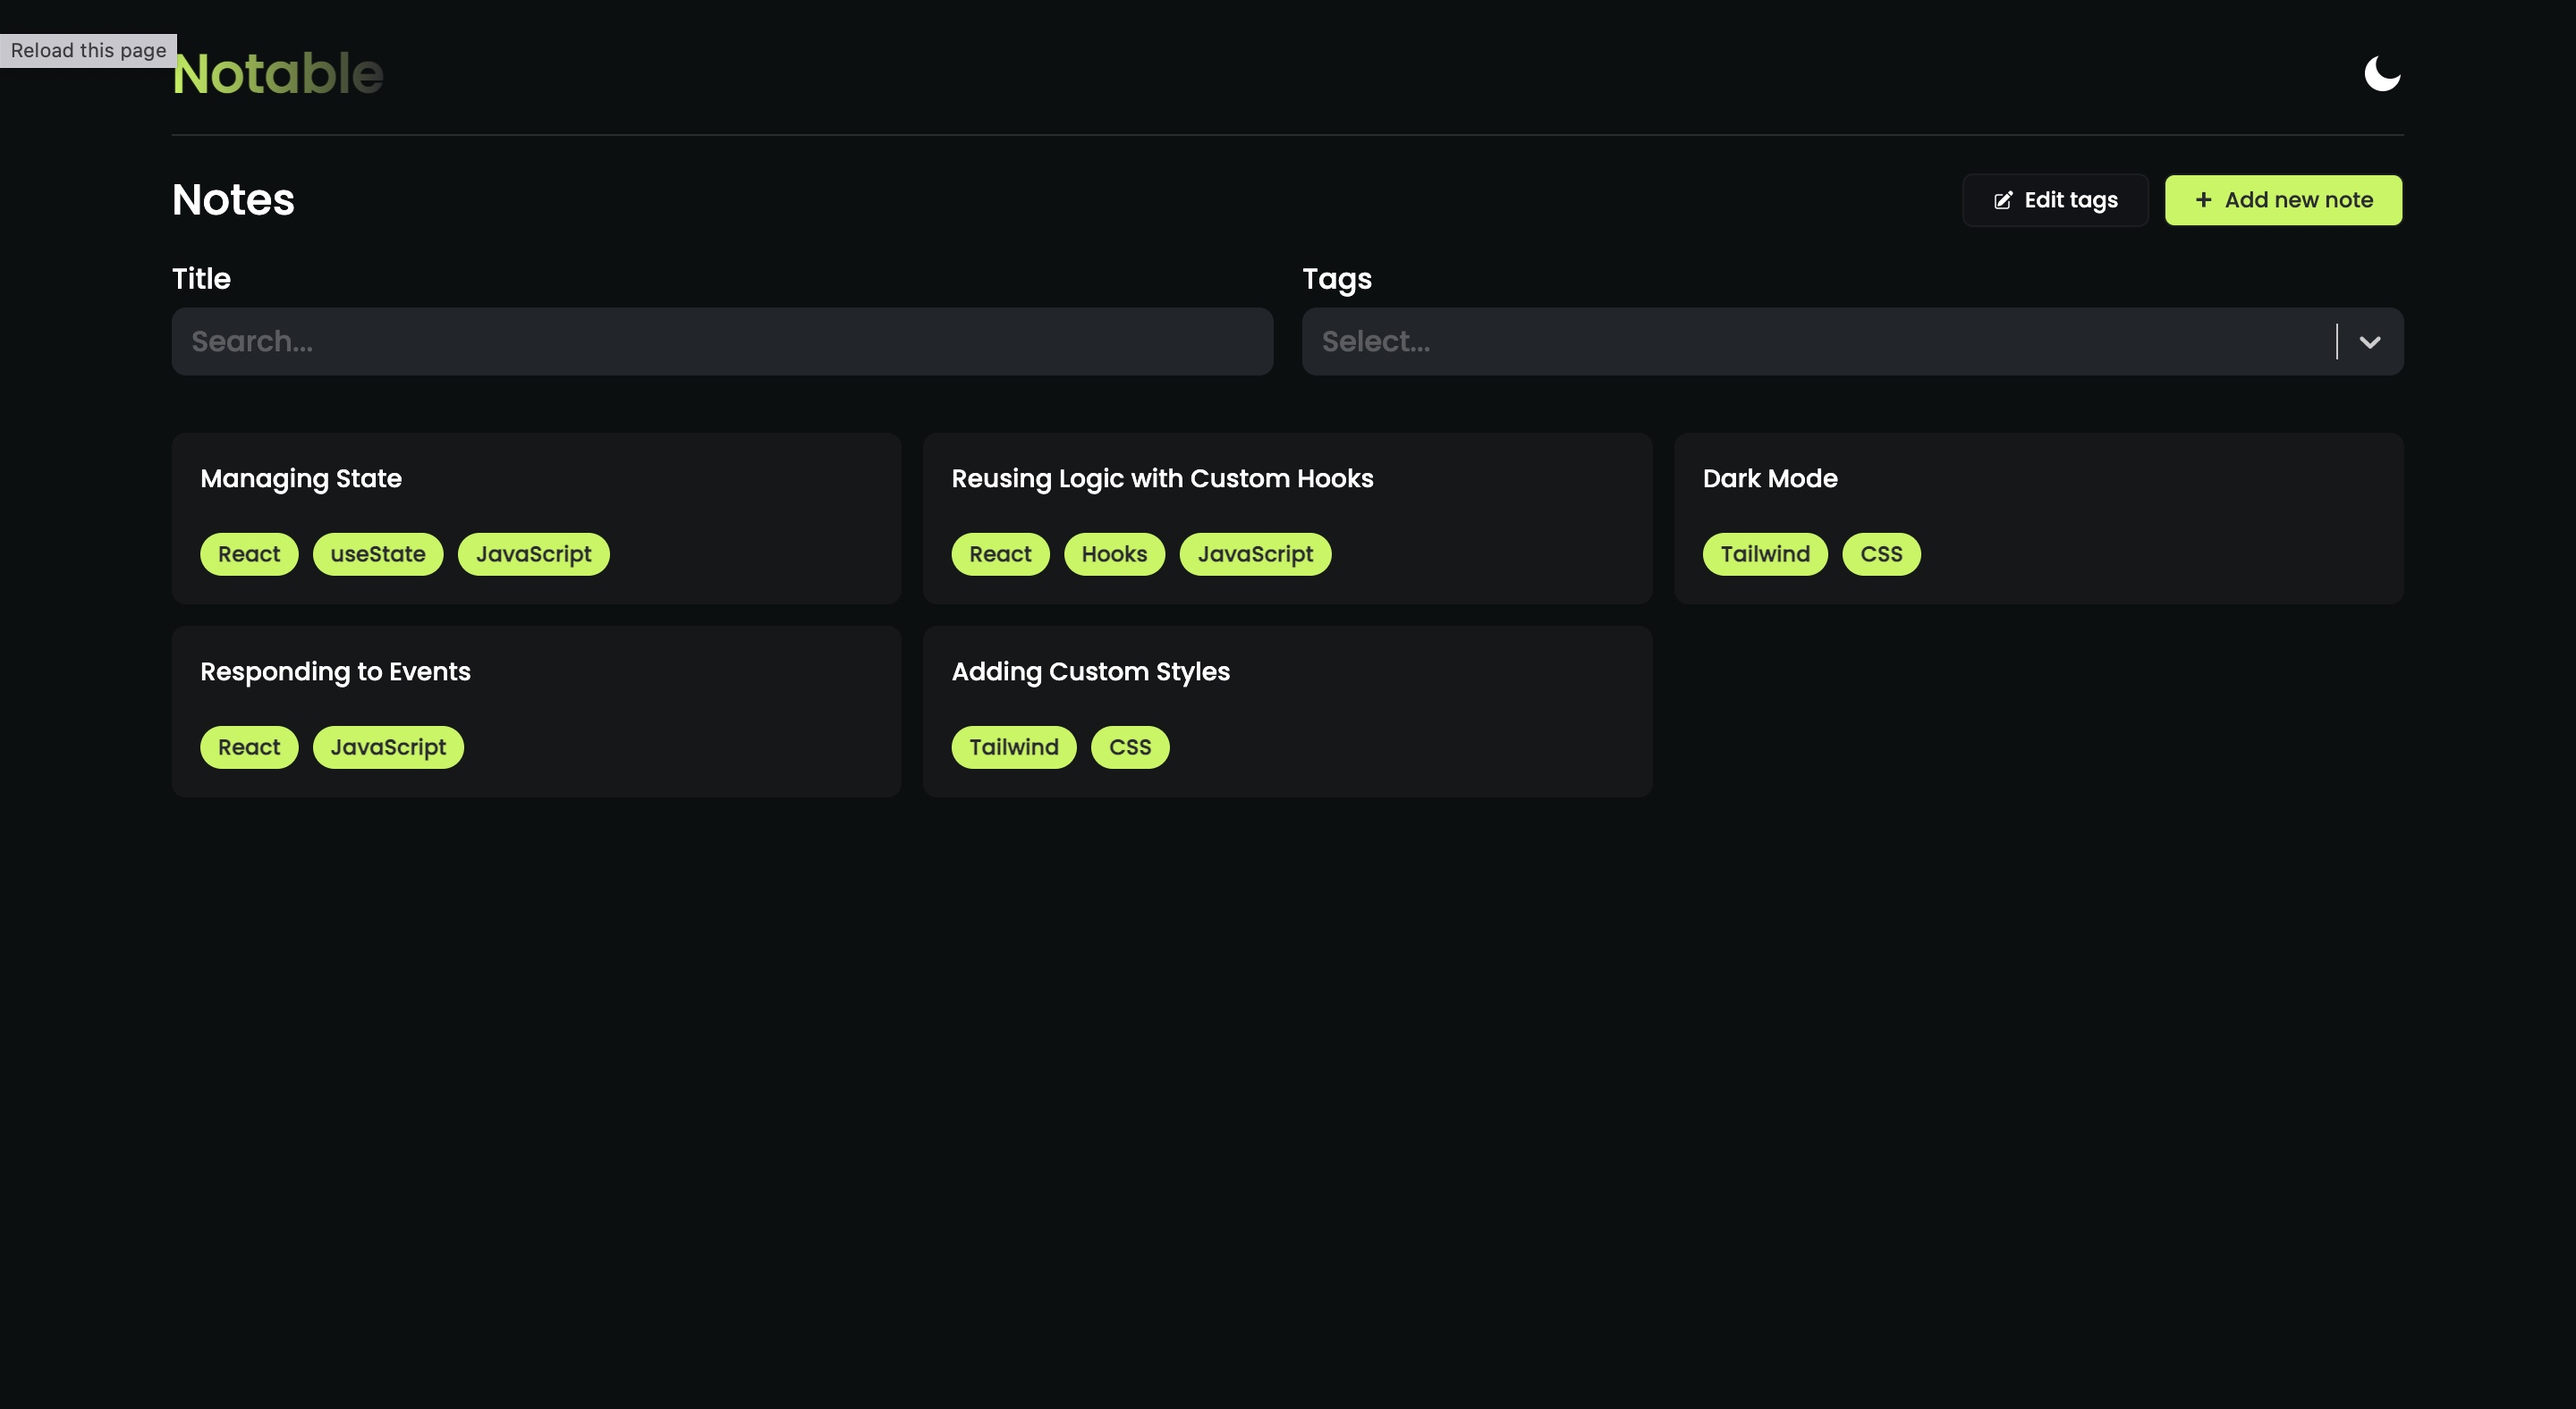
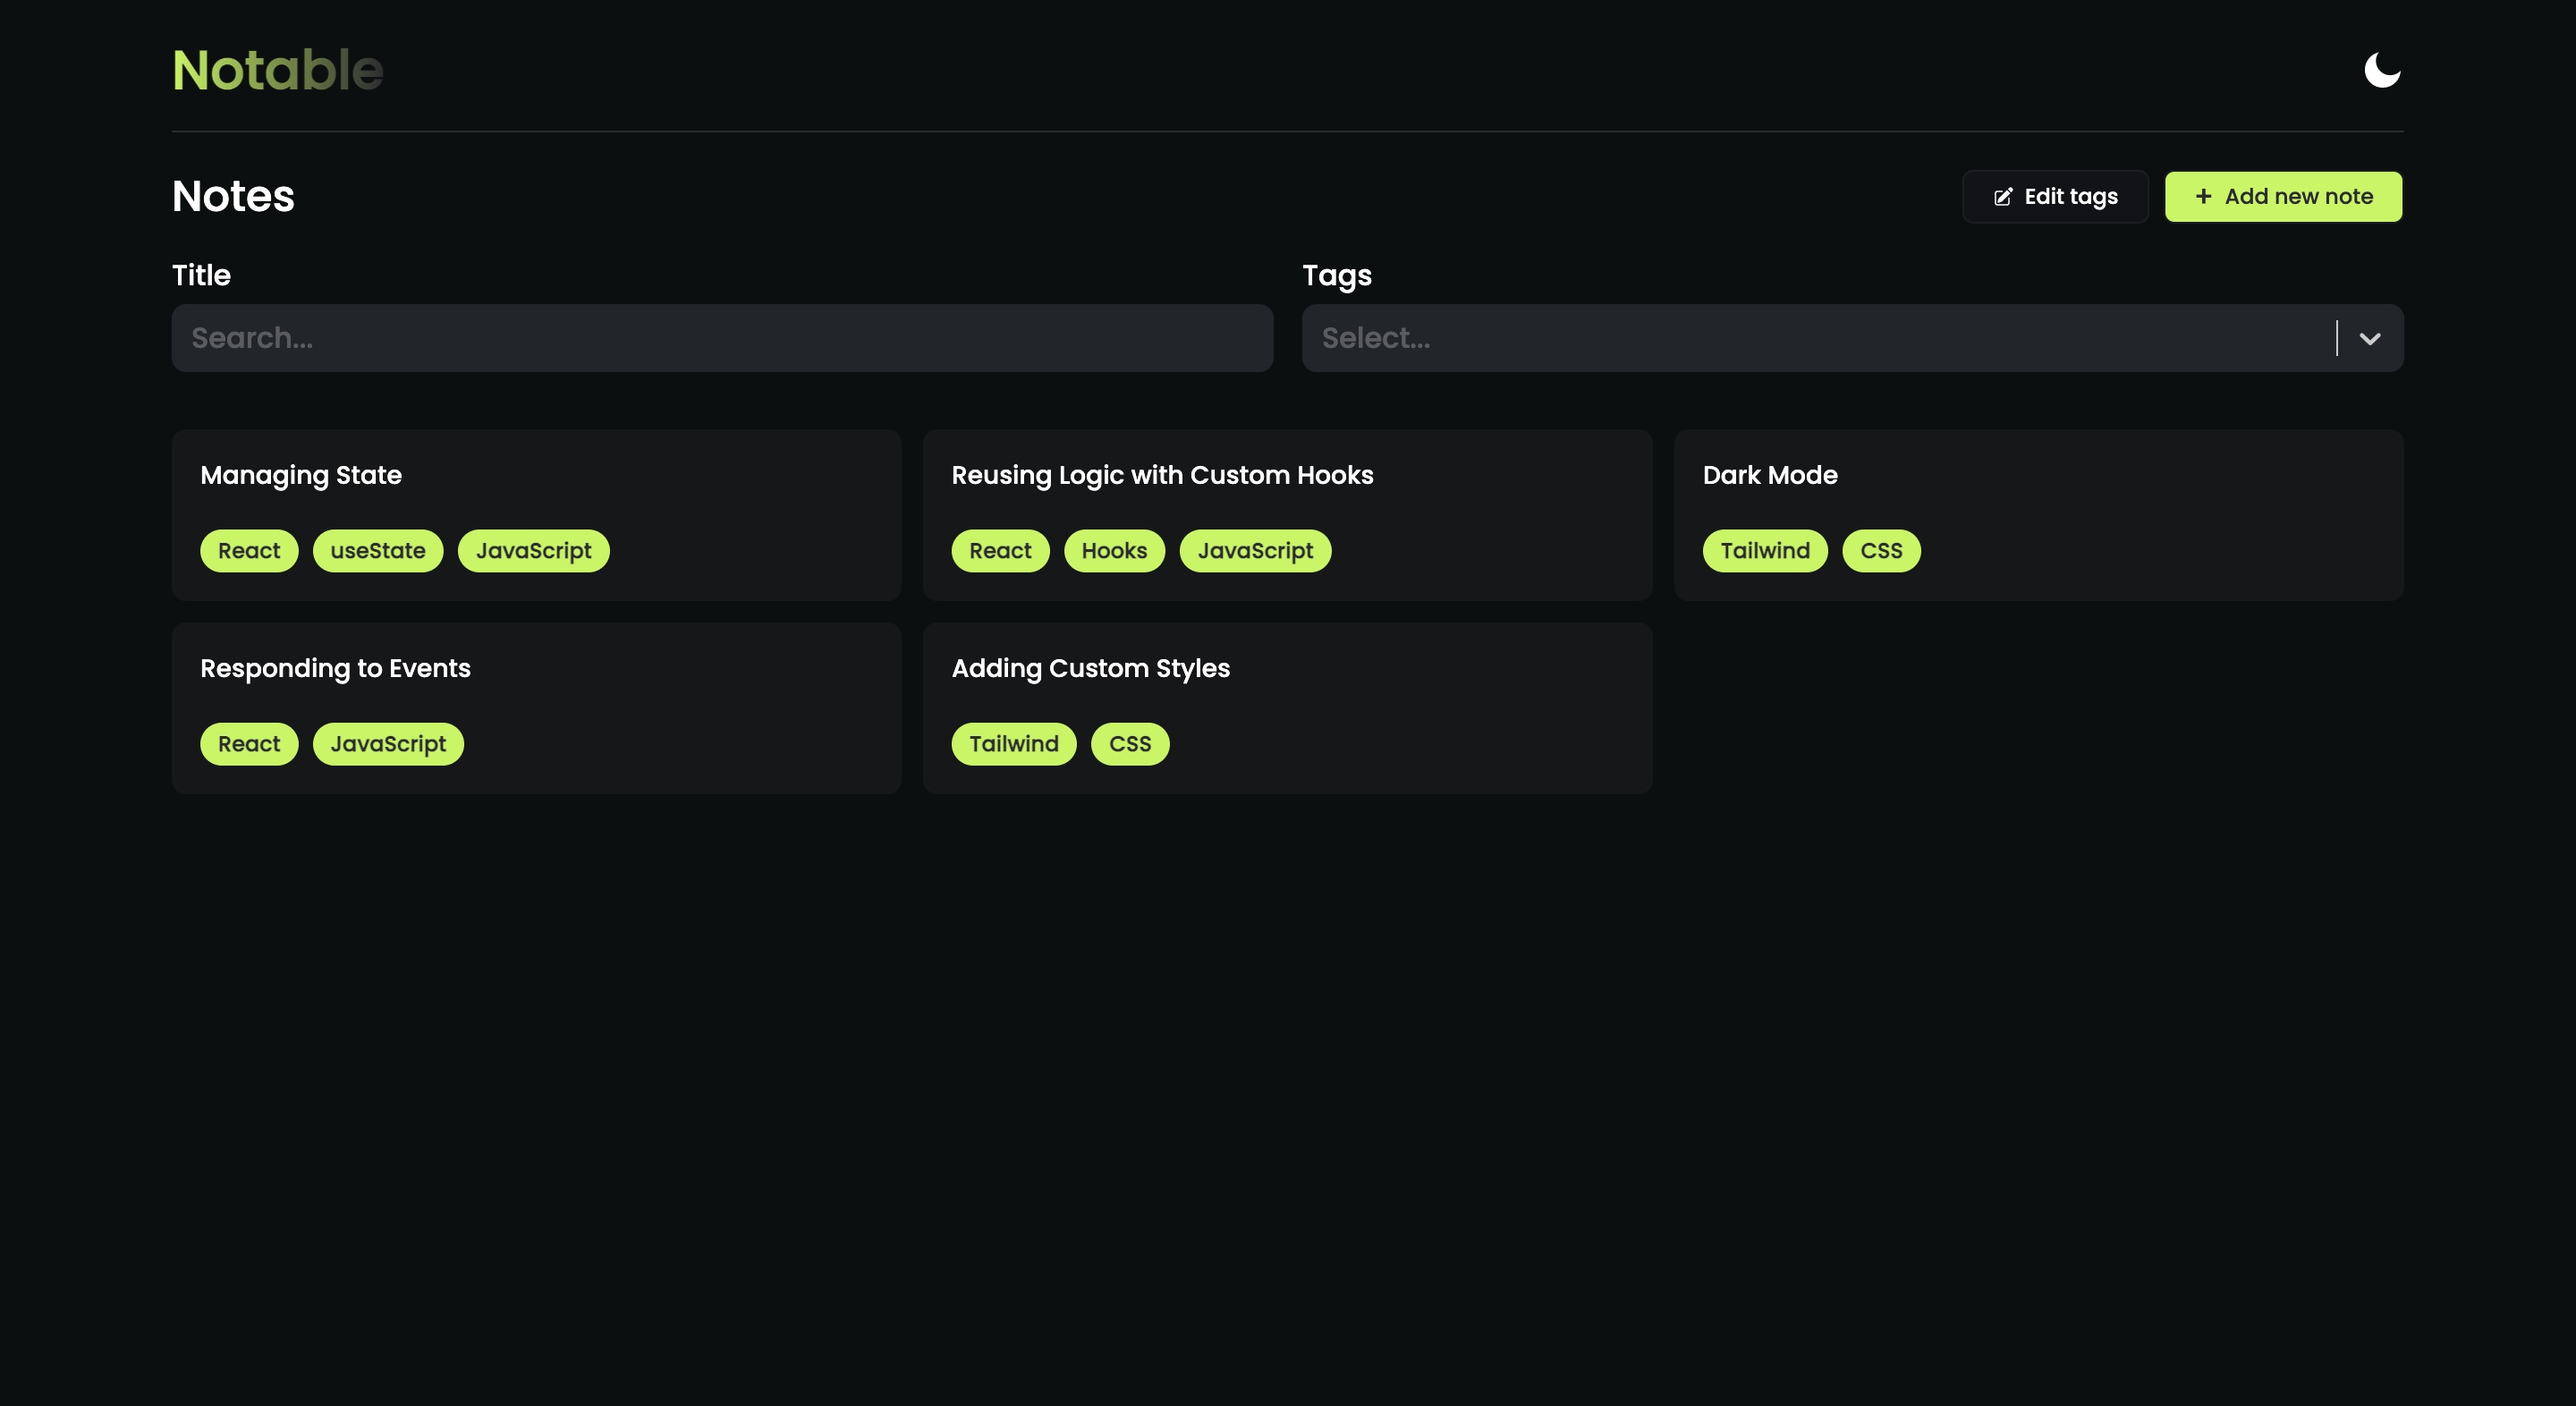
Replace notes screenshot and update README content

diff --git a/README.md b/README.md
@@ -37,7 +37,7 @@ To explore the live app visit: [https://does-not-exist-yet.com](/).
 ## Features
 
 - Create, update and delete notes and their related tags.
-- Notes and tags persisted in local storage.
+- Notes and tags persist in local storage.
 - Dark mode.
 - Markdown support.
 
